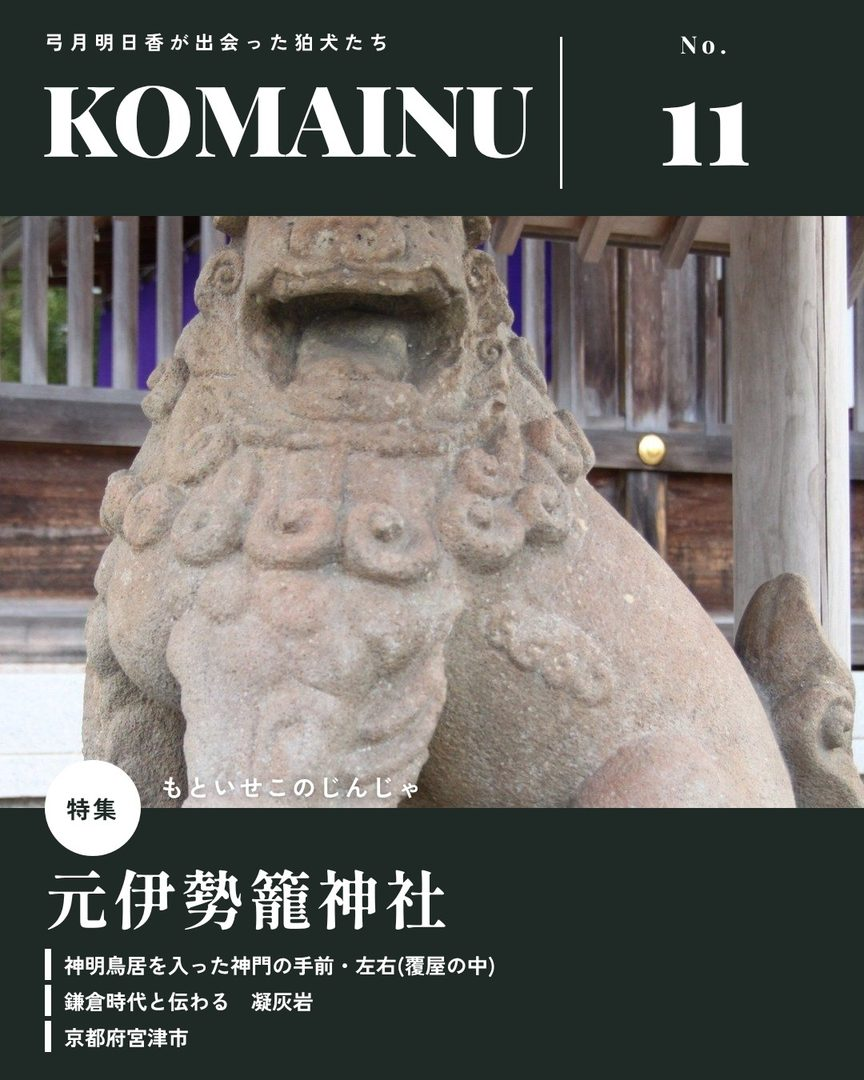
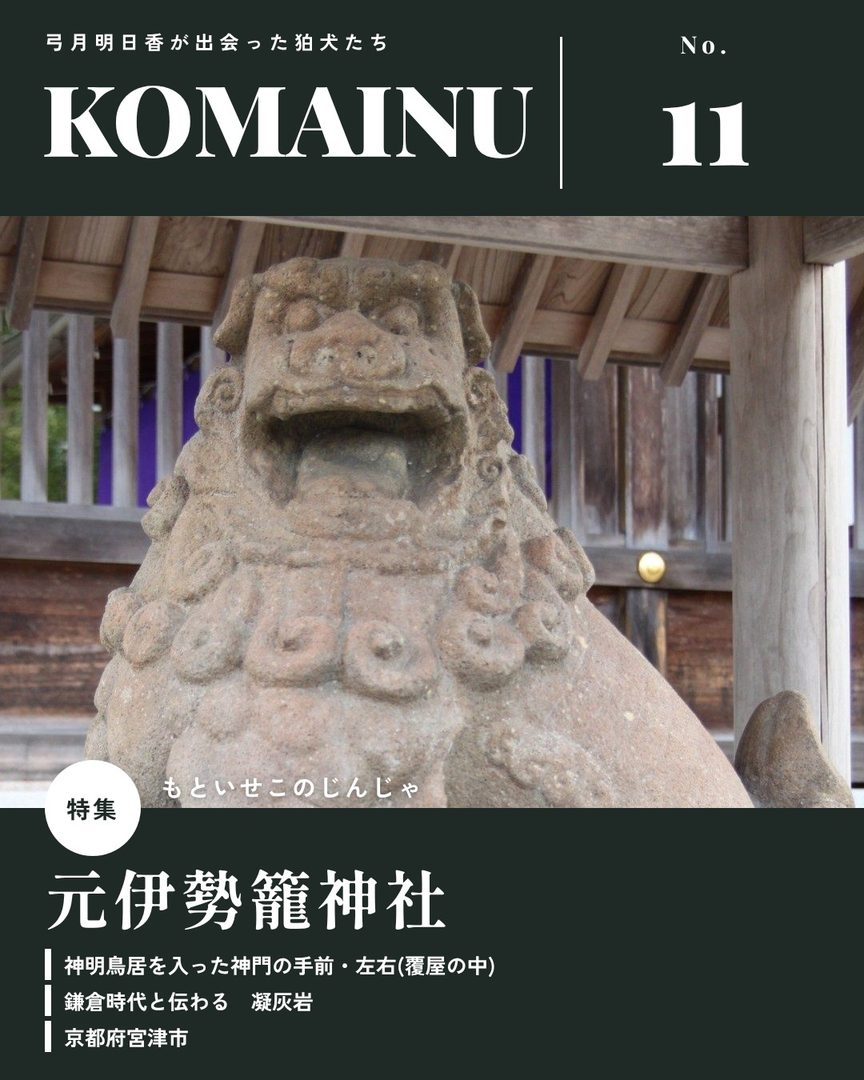
図鑑：表紙の狛犬を誌名の手前に。写真を拡大せず顔が切れないように切り出す（komainu-v44）
Claude-Session: https://claude.ai/code/session_01TBFoRxibf2evV9HUJqSJfP

diff --git a/zukan/app.js b/zukan/app.js
@@ -520,8 +520,8 @@
   }
 
   // 雑誌の表紙のような1枚。build/cover2/make4.py が作った画像(Instagram の1枚目と同じもの)をそのまま出す。
-  // 狛犬を切り抜いて誌名の上に頭が重なる作りのため、画像で持つ。6種類を神社の並び順で回す
-  var COVER_V = '20261106d';
+  // 狛犬を切り抜いて誌名の上に頭が重なる作りのため、画像で持つ。11種類を神社の並び順で回す
+  var COVER_V = '20261106e';
   function coverHTML(s) {
     var ks = s.komainu || [], gw = groupWord(ks);
     if (!ks[0]) return '';

diff --git a/zukan/sw.js b/zukan/sw.js
@@ -1,7 +1,7 @@
 /* 狛犬図鑑 service worker
    アプリ本体は先に保存。data/ は新しいものを優先（通信できないときは保存分）。
    写真と地図タイルは見たものから保存する。データを差し替えたら CACHE の番号を上げる。 */
-var CACHE = 'komainu-v43';
+var CACHE = 'komainu-v44';
 var CORE = [
   './', 'index.html', 'style.css', 'app.js', 'maplibre-gl.css', 'manifest.webmanifest',
   'data/site.json', 'data/taxonomy.json', 'data/shrines.json',
